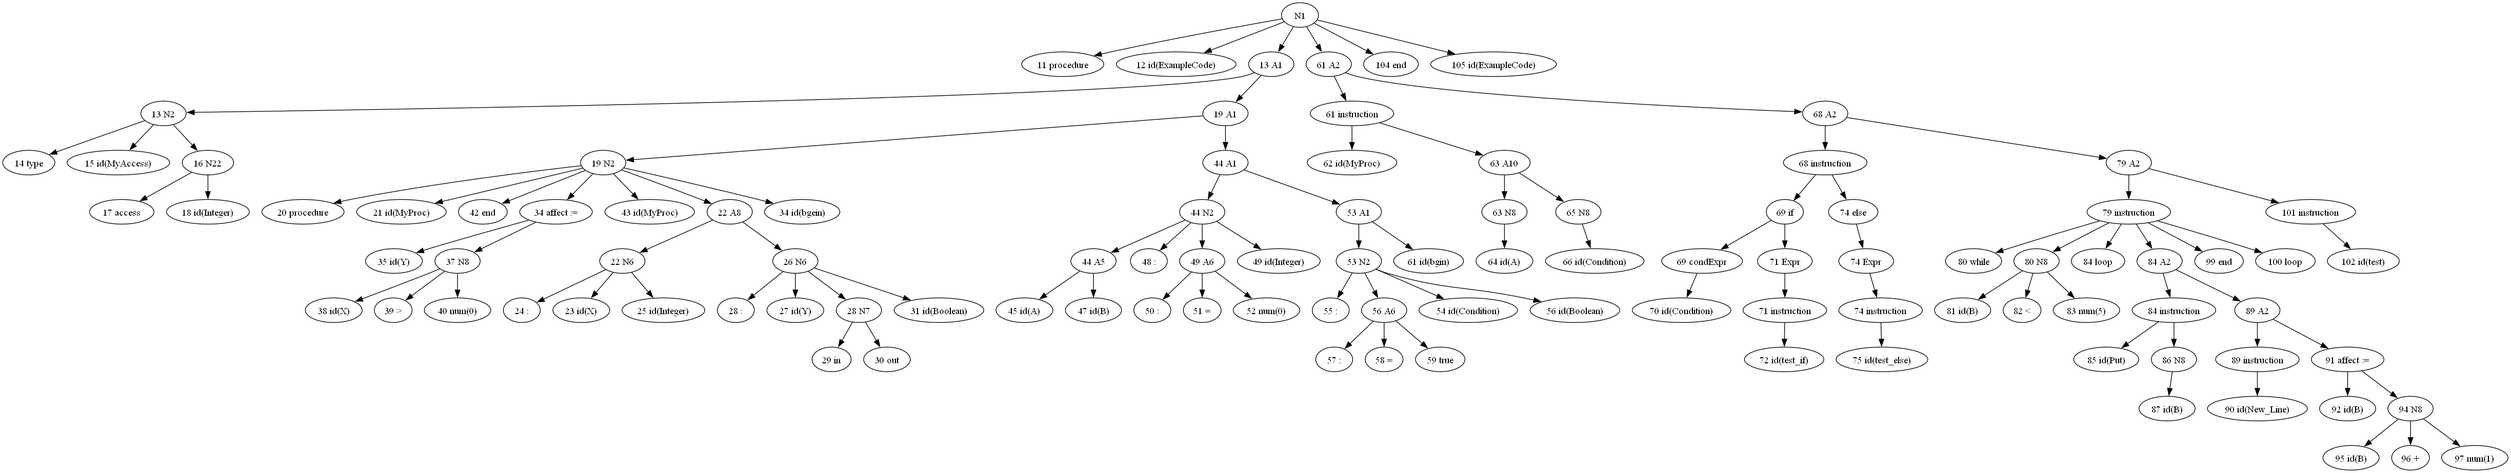
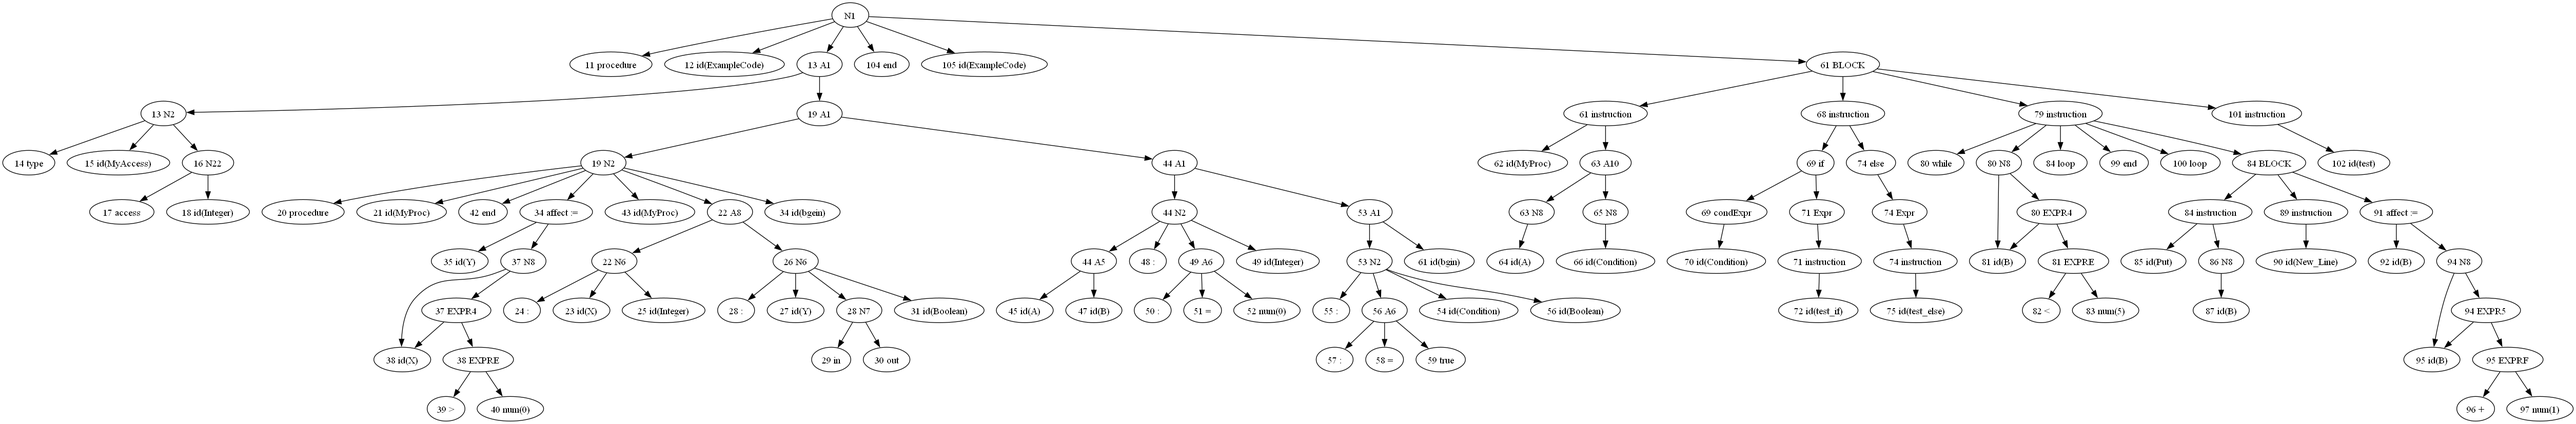
A2 remover

diff --git a/parseur/main_parseur.py b/parseur/main_parseur.py
@@ -111,7 +111,21 @@ def delete_all_nodes(root):
         if supprimer_noeuds_un_seul_fils(node):
             delete_all_nodes(root)
         if node.name != 'N1':
-            supprimer_Expr(node)
+            #supprimer_Expr(node)
+            continue
+def addBlockNode(node):
+    name = node.name.split(" ")
+    x = Node(name[0]+" BLOCK", node.parent)
+    node.parent = x
+    return x
+
+def removeA2(node):
+    for node in PreOrderIter(node):
+        if node.name != "N1":
+            name = node.name.split(" ")
+            if name[1] == "A2":
+                addBlockNode(node)
+                A2_destroyer(node)
 
 def generate_final_AST(root):
     delete_leef_epsX(root)
@@ -120,6 +134,7 @@ def generate_final_AST(root):
     # delete_all_duplicates(root)
     boucle_node(root)
     test_logique(root)
+    A2counter = 0
     for node in PreOrderIter(root):
         if node.name != "N1":
             name = node.name.split(" ")
@@ -130,6 +145,10 @@ def generate_final_AST(root):
                         return_instr(node.parent)
                     elif name[1] == "N92":
                         affect(node)
+            if name[1] == "A2":
+                A2counter +=1
+    for i in range(A2counter):
+        removeA2(root)
     return root
 
 
@@ -164,16 +183,16 @@ def boucle_node(root):
         if node.name != "N1":
             rename(node)
 def A2_destroyer(root):
-    name = root.name.split(" ")
-    root.name = name[0] + " Expr"
-    for node in PreOrderIter(root):
-        nameNode = node.name.split(" ")
-        if nameNode[1] == "A2":
-            children = node.children
-            for i in range(len(children)):
-                children[i].parent = node.parent
-            node.parent = None
 
+    children = root.children
+    for i in range(len(children)):
+        nameChildren = children[i].name.split(" ")
+        if nameChildren[1] == "A2":
+            A2_destroyer(children[i])
+    children = root.children
+    for j in range(len(children)):
+        children[j].parent = root.parent
+    root.parent = None
 
 def test_logique(root):
     for node in PreOrderIter(root):
@@ -202,13 +221,14 @@ def test_if(node, string):
             sibling = node.siblings
             for i in range(0, len(sibling)):
                 nameS = sibling[i].name.split(" ")
-                if (nameS[1] == "A2"):
-                    A2_destroyer(sibling[i])
-                    sibling[i].parent = node
-                    break
                 if(nameS[1] == "instruction"):
                     x = Node(nameS[0] + " Expr", node)
                     sibling[i].parent = x
+                    break
+                if(nameS[1] == "A2"):
+                    x = addBlockNode(sibling[i])
+                    x.parent = node
+                    A2_destroyer(sibling[i])
                     break
             sibling = node.siblings
             for i in range(0, len(sibling)):
@@ -241,13 +261,15 @@ def test_elsif(node, string):
             sibling = node.siblings
             for i in range(0, len(sibling)):
                 nameS = sibling[i].name.split(" ")
-                if (nameS[1] == "A2"):
-                    A2_destroyer(sibling[i])
-                    sibling[i].parent = node
-                    break
+
                 if(nameS[1] == "instruction"):
                     x = Node(nameS[0] + " Expr", node)
                     sibling[i].parent = x
+                    break
+                if(nameS[1] == "A2"):
+                    x = addBlockNode(sibling[i])
+                    x.parent = node
+                    A2_destroyer(sibling[i])
                     break
             temp = node.parent.parent
             node.parent.parent = None
@@ -260,15 +282,15 @@ def test_else(node, string):
             sibling = node.siblings
             for i in range(0, len(sibling)):
                 nameS = sibling[i].name.split(" ")
-                if (nameS[1] == "A2"):
-                    A2_destroyer(sibling[i])
-                    sibling[i].parent = node
-                    break
                 if (nameS[1] == "instruction"):
                     x = Node(nameS[0] + " Expr", node)
                     sibling[i].parent = x
                     break
-
+                if(nameS[1] == "A2"):
+                    x = addBlockNode(sibling[i])
+                    x.parent = node
+                    A2_destroyer(sibling[i])
+                    break
             temp = node.parent.parent
             node.parent.parent = None
             node.parent = temp
